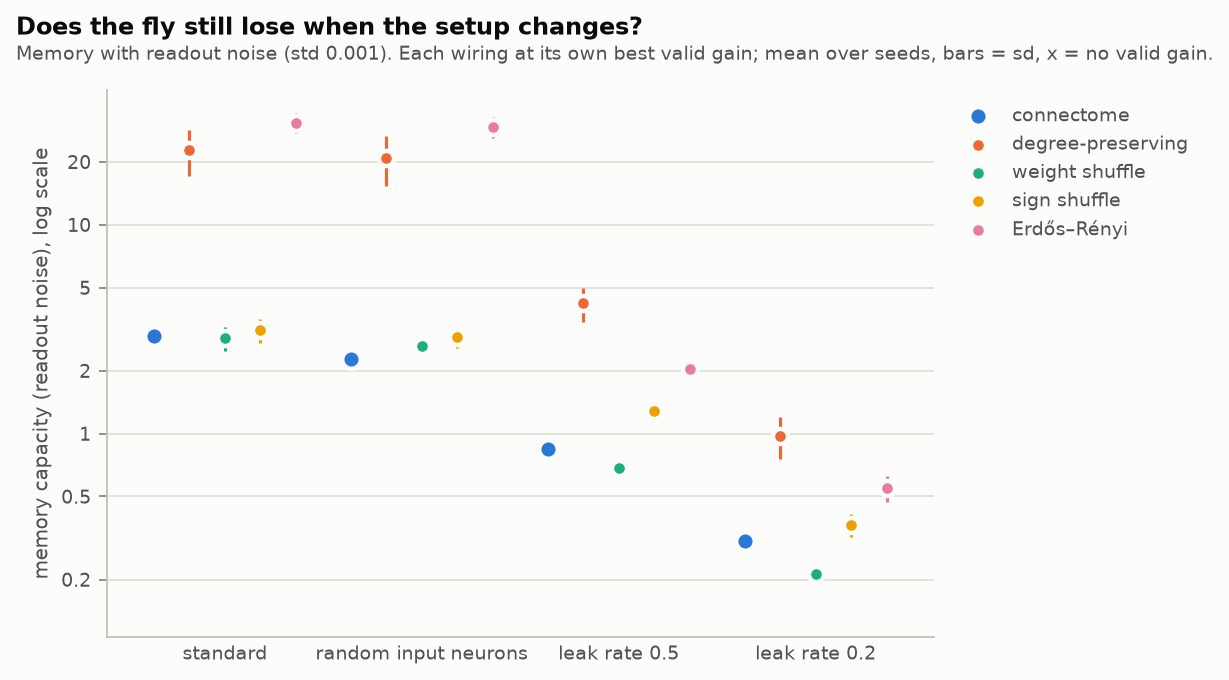
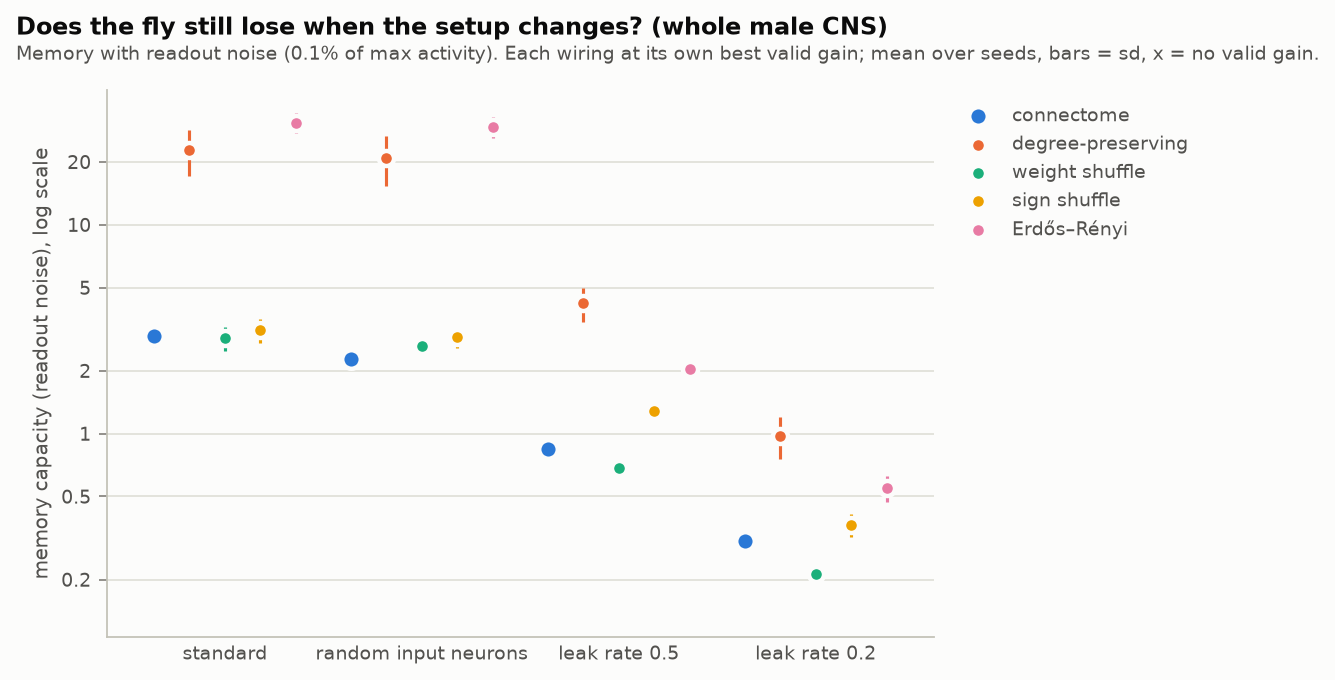
Figures: full scoreboard legend, fix gain sweep titles, name the brain in every title, NARMA replot

diff --git a/src/flyres/plotting.py b/src/flyres/plotting.py
@@ -449,7 +449,7 @@ def plot_gain_sweep(summary: pd.DataFrame, gain_label: str = "spectral radius", 
     axes = np.atleast_1d(axes)
     lo, hi = summary["gain"].min(), summary["gain"].max()
     labelled = [g for g in (0.25, 0.5, 1, 2, 3, 6, 12, 20, 30, 50, 100) if lo <= g <= hi]
-    for ax, (col, title) in zip(axes, panels):
+    for ax, (col, panel_title) in zip(axes, panels):
         for w in [w for w in WIRINGS if w in set(summary["wiring"])]:
             g = summary[summary["wiring"] == w].sort_values("gain")
             color = WIRING_COLORS[w]
@@ -465,7 +465,7 @@ def plot_gain_sweep(summary: pd.DataFrame, gain_label: str = "spectral radius", 
         ax.xaxis.set_major_formatter(mticker.FuncFormatter(lambda v, _: f"{v:g}"))
         ax.xaxis.set_minor_locator(mticker.NullLocator())
         ax.set_xlabel(gain_label)
-        ax.set_title(title, loc="left", fontsize=9.5, color=INK_2)
+        ax.set_title(panel_title, loc="left", fontsize=9.5, color=INK_2)
     axes[0].set_ylim(bottom=0)
     axes[0].set_ylabel("memory capacity")
     fig.suptitle(title, x=0.01, ha="left", fontsize=11, fontweight="bold", color=INK, y=1.04)
@@ -578,7 +578,7 @@ def plot_region_gains(results: pd.DataFrame, region_table: pd.DataFrame, noise: 
         ax_h.spines[side].set_visible(False)
     cb = fig.colorbar(mesh, cax=ax_c)
     cb.outline.set_visible(False)
-    ticks = [v for v in range(-6, 7, 2 if lim > 2 else 1) if -lim <= v <= lim]
+    ticks = [v for v in range(-6, 7, 2 if lim > 4 else 1) if -lim <= v <= lim]
     cb.set_ticks(ticks, labels=[f"×{2 ** v}" if v >= 0 else f"×1/{2 ** -v}" for v in ticks])
     cb.ax.tick_params(colors=MUTED, labelcolor=INK_2, labelsize=8)
 
@@ -707,7 +707,8 @@ def plot_vol_forecast(predictions: pd.DataFrame, ticker: str, horizon: int, wind
     return _save(fig, path)
 
 
-def plot_narma(grid: pd.DataFrame, baseline: float | None = None, noise: float | None = None, path=None):
+def plot_narma(grid: pd.DataFrame, baseline: float | None = None, noise: float | None = None, path=None,
+               title: str = "NARMA-10 error at each gain"):
     """NARMA-10 error against gain, one line per wiring (mean over seeds). Lower is better. With readout-noise
     results, two panels on the same y scale: with noise (left, the main score) and noise-free (right).
     Filled markers = valid reservoir, hollow = some readouts latch or go chaotic."""
@@ -717,7 +718,7 @@ def plot_narma(grid: pd.DataFrame, baseline: float | None = None, noise: float |
     fig, axes = _figure(len(panels), figsize=(4.6 * len(panels) + 1.8, 4.0), sharey=True)
     axes = np.atleast_1d(axes)
     lo, hi = grid["gain"].min(), grid["gain"].max()
-    for ax, (col, title) in zip(axes, panels):
+    for ax, (col, panel_title) in zip(axes, panels):
         for w in [w for w in WIRINGS if w in set(grid["wiring"])]:
             g = grid[grid["wiring"] == w].sort_values("gain")
             color, main = WIRING_COLORS[w], w == "connectome"
@@ -728,26 +729,26 @@ def plot_narma(grid: pd.DataFrame, baseline: float | None = None, noise: float |
             ax.scatter(g["gain"][~ok], g[col][~ok], s=40, facecolors=SURFACE, edgecolors=color, linewidths=1.6,
                        zorder=4)
         if baseline is not None and np.isfinite(baseline):
-            ax.axhline(baseline, color=INK_2, linewidth=1.2, linestyle="--", zorder=1)
-            ax.text(lo, baseline, " linear model, last 10 inputs", va="bottom", ha="left", fontsize=8.5, color=INK_2)
+            ax.axhline(baseline, color=INK_2, linewidth=1.2, linestyle="--", zorder=1,
+                       label="linear model,\nlast 10 inputs" if ax is axes[-1] else None)
         ax.set_xscale("log")
         ax.set_xticks([g for g in (0.25, 0.5, 1, 2, 3, 6, 12, 20, 30, 50) if lo <= g <= hi])
         ax.xaxis.set_major_formatter(mticker.FuncFormatter(lambda v, _: f"{v:g}"))
         ax.xaxis.set_minor_locator(mticker.NullLocator())
         ax.set_xlabel("spectral radius")
-        ax.set_title(title, loc="left", fontsize=9.5, color=INK_2)
+        ax.set_title(panel_title, loc="left", fontsize=9.5, color=INK_2)
     axes[0].set_ylabel("NRMSE (lower = better)")
     axes[0].set_ylim(bottom=0)
     _legend(axes[-1], loc="upper left", bbox_to_anchor=(1.02, 1.0))
     fig.tight_layout()
-    fig.suptitle("NARMA-10 error at each gain", x=0.01, ha="left", fontsize=11, fontweight="bold", color=INK,
-                 y=1.08)
+    fig.suptitle(title, x=0.01, ha="left", fontsize=11, fontweight="bold", color=INK, y=1.08)
     fig.text(0.01, 1.01, "Mean over seeds. Hollow = invalid reservoir (some neurons latch or go chaotic).",
              ha="left", fontsize=8.5, color=INK_2)
     return _save(fig, path)
 
 
-def plot_robustness(best: pd.DataFrame, labels: dict, noise: float | None = None, path=None):
+def plot_robustness(best: pd.DataFrame, labels: dict, noise: float | None = None, path=None,
+                    title: str = "Does the fly still lose when the setup changes?"):
     """Each wiring's memory at its best valid gain, for each variant of the setup (groups left to right).
     best: rows per variant and wiring as from robustness.summarize_robustness. labels: variant -> label.
     Bars = sd over seeds; x = no valid gain for that wiring. Log scale when values span more than 20x."""
@@ -791,13 +792,15 @@ def plot_robustness(best: pd.DataFrame, labels: dict, noise: float | None = None
                   + (", log scale" if log else ""))
     _legend(ax, loc="upper left", bbox_to_anchor=(1.01, 1.0))
     fig.tight_layout()
-    fig.suptitle("Does the fly still lose when the setup changes?", x=0.01, ha="left", fontsize=11,
-                 fontweight="bold", color=INK, y=1.08)
+    fig.suptitle(title, x=0.01, ha="left", fontsize=11, fontweight="bold", color=INK, y=1.08)
     sub = "Each wiring at its own best valid gain; mean over seeds, bars = sd, x = no valid gain."
     if noise and metric == "memory_noisy":
-        sub = f"Memory with readout noise (std {noise:g}). " + sub
+        sub = f"Memory with readout noise ({noise:.1%} of max activity). " + sub
     fig.text(0.01, 1.01, sub, ha="left", fontsize=8.5, color=INK_2)
     return _save(fig, path)
+
+
+FLY_SIZE, RANDOM_SIZE = 64, 24  # scoreboard marker areas (pt^2)
 
 
 def plot_scoreboard(table: pd.DataFrame, setups: dict, path=None, scales=None, connectomes=None):
@@ -809,6 +812,7 @@ def plot_scoreboard(table: pd.DataFrame, setups: dict, path=None, scales=None, c
     connectomes = [x for x in (connectomes or dict.fromkeys(table["connectome"])) if x in set(table["connectome"])]
     rows = [s for s in setups if s in set(table["setup"])]
     markers = dict(zip(connectomes, ("o", "D", "s", "^")))
+    shapes = {"o": "circle", "D": "diamond", "s": "square", "^": "triangle"}
     offsets = dict(zip(connectomes, np.linspace(-0.17, 0.17, len(connectomes)) if len(connectomes) > 1 else [0.0]))
     fly_color = WIRING_COLORS["connectome"]
     fig, axes = _figure(len(scales), figsize=(4.3 * len(scales) + 2.2, 0.52 * len(rows) + 1.3), sharey=True,
@@ -826,10 +830,10 @@ def plot_scoreboard(table: pd.DataFrame, setups: dict, path=None, scales=None, c
                 y = i + offsets[c]
                 f, r = t.loc[setup, "fly"], t.loc[setup, "random"]
                 ax.plot([f, r], [y, y], color=GRID, linewidth=2.2, zorder=1, **LINE)
-                ax.scatter([f], [y], marker=markers[c], s=58, color=fly_color, edgecolors=SURFACE, linewidths=1.5,
-                           zorder=2)
-                # the random wiring on top and a bit smaller, so a tie still shows both
-                ax.scatter([r], [y], marker=markers[c], s=34, color=MUTED, edgecolors=SURFACE, linewidths=1.2, zorder=3)
+                ax.scatter([f], [y], marker=markers[c], s=FLY_SIZE, color=fly_color, edgecolors=SURFACE,
+                           linewidths=1.5, zorder=2)
+                # the random wiring on top and smaller, so a tie still shows a blue ring around the gray
+                ax.scatter([r], [y], marker=markers[c], s=RANDOM_SIZE, color=MUTED, linewidths=0, zorder=3)
         ax.set_xscale("log")
         ax.set_xlim(lo / 1.6, hi * 1.6)
         ax.xaxis.set_major_locator(mticker.FixedLocator([t for t in (0.2, 0.5, 1, 2, 5, 10, 20, 50, 100)
@@ -844,16 +848,24 @@ def plot_scoreboard(table: pd.DataFrame, setups: dict, path=None, scales=None, c
     axes[0].tick_params(axis="y", length=0)
     from matplotlib.lines import Line2D
 
-    handles = [Line2D([], [], marker="o", linestyle="", color=fly_color, markersize=7, label="the fly's wiring"),
-               Line2D([], [], marker="o", linestyle="", color=MUTED, markersize=7,
-                      label="best random rewiring\n(degree-preserving or\nErdős–Rényi)")]
-    handles += [Line2D([], [], marker=markers[c], linestyle="", color=INK_2, markersize=6, label=c)
-                for c in connectomes]
-    _legend(axes[-1], handles=handles, loc="upper left", bbox_to_anchor=(1.02, 1.0))
+    def entry(marker, color, size, label):  # legend marker the same size as in the plot
+        return Line2D([], [], marker=marker, linestyle="", markersize=np.sqrt(size), color=color,
+                      markeredgewidth=0, label=label)
+
+    # every colour-shape pair spelled out: blue diamond = the fly in FlyWire, and so on
+    handles = [entry(markers[c], fly_color, FLY_SIZE, f"the fly, {c}") for c in connectomes]
+    handles += [entry(markers[c], MUTED, RANDOM_SIZE, f"best random rewiring, {c}") for c in connectomes]
+    shown = {c: set(zip(table.loc[table["connectome"] == c, "scale"], table.loc[table["connectome"] == c, "setup"]))
+             for c in connectomes}
+    everything = set().union(*shown.values())
+    handles += [Line2D([], [], linestyle="", label=f"no {shapes[markers[c]]} = not run on {c}")
+                for c in connectomes if len(connectomes) > 1 and shown[c] != everything]
+    _legend(axes[-1], handles=handles, loc="upper left", bbox_to_anchor=(1.02, 1.0), handletextpad=0.4)
     fig.tight_layout()
     height = fig.get_size_inches()[1]  # place the titles a fixed distance above the plot, whatever its height
     fig.suptitle("The fly against random wiring, in every setup", x=0.01, ha="left", fontsize=11, fontweight="bold",
                  color=INK, y=1 + 0.38 / height)
-    fig.text(0.01, 1 + 0.06 / height, "Memory each reservoir can use (higher = better), 3 seeds each. Blue = the fly, "
-             "gray = the better of the two random rewirings.", ha="left", fontsize=8.5, color=INK_2)
+    fig.text(0.01, 1 + 0.06 / height, "Memory each reservoir can use (higher = better), mean of 3 seeds. "
+             "Best random rewiring = the better of degree-preserving and Erdős–Rényi.", ha="left", fontsize=8.5,
+             color=INK_2)
     return _save(fig, path)

diff --git a/scripts/narma.py b/scripts/narma.py
@@ -6,7 +6,7 @@
 Same reservoirs as gain_sweep.py (seeds, input weights, readout neurons, latching tests). If gain_sweep.py
 has been run for this config, NARMA error is also compared with memory capacity reservoir by reservoir.
 Output in results/<name>/narma/: summary.md (start here), runs.csv (every run), grid.csv (mean per wiring
-and gain), narma.png.
+and gain), narma.png. --replot redraws them from runs.csv and linear_baseline.csv.
 """
 import argparse
 import warnings
@@ -20,7 +20,7 @@ import matplotlib.pyplot as plt  # noqa: E402
 import pandas as pd  # noqa: E402
 
 from flyres import plotting  # noqa: E402
-from flyres.config import load_config, save_config  # noqa: E402
+from flyres.config import load_config, run_label, save_config  # noqa: E402
 from flyres.narma import best_narma, memory_link, narma_markdown, run_narma, summarize_narma  # noqa: E402
 from flyres.sweep import DEFAULT_GAINS  # noqa: E402
 
@@ -34,6 +34,7 @@ def main():
     p.add_argument("--gains", nargs="+", type=float, default=list(DEFAULT_GAINS))
     p.add_argument("--seeds", nargs="+", type=int, default=[0, 1, 2], help="seeds (default 0 1 2, like the gain sweep)")
     p.add_argument("--quiet", action="store_true")
+    p.add_argument("--replot", action="store_true", help="don't run; redraw summary and figure from earlier CSVs")
     args = p.parse_args()
 
     cfg = load_config(args.config, args.set)
@@ -42,18 +43,22 @@ def main():
     out = run_dir / "narma"
     out.mkdir(parents=True, exist_ok=True)
 
-    runs, baseline = run_narma(cfg, args.gains, verbose=not args.quiet)
+    if args.replot:
+        runs, baseline = pd.read_csv(out / "runs.csv"), pd.read_csv(out / "linear_baseline.csv")
+        cfg = load_config(out / "config_used.yaml")
+    else:
+        runs, baseline = run_narma(cfg, args.gains, verbose=not args.quiet)
+        runs.to_csv(out / "runs.csv", index=False)
+        baseline.to_csv(out / "linear_baseline.csv", index=False)
+        save_config(cfg, out / "config_used.yaml")
     grid = summarize_narma(runs)
     best = best_narma(grid, cfg.reservoir.spectral_radius)
     sweep_path = run_dir / "gain_sweep" / "sweep.csv"
     link = memory_link(runs, pd.read_csv(sweep_path)) if sweep_path.exists() else None
-    runs.to_csv(out / "runs.csv", index=False)
     grid.to_csv(out / "grid.csv", index=False)
-    baseline.to_csv(out / "linear_baseline.csv", index=False)
-    save_config(cfg, out / "config_used.yaml")
     (out / "summary.md").write_text(narma_markdown(cfg, grid, best, baseline, link), encoding="utf-8")
     plt.close(plotting.plot_narma(grid, baseline["nrmse"].mean(), noise=cfg.memory.readout_noise,
-                                  path=out / "narma.png"))
+                                  path=out / "narma.png", title=f"NARMA-10 error at each gain, {run_label(cfg)}"))
     print(best.round(3).to_string(index=False))
     print(f"linear baseline: {baseline['nrmse'].mean():.3f}")
     print(f"open {out / 'summary.md'}")

diff --git a/tests/test_plotting.py b/tests/test_plotting.py
@@ -24,6 +24,20 @@ def test_figures_render_and_save(tmp_path, neurons):
     plt.close("all")
 
 
+def test_sweep_figures_keep_their_title():
+    """Regression: the panel loop reused the name `title`, so the figure was titled after its last panel."""
+    grid = pd.DataFrame([{"wiring": w, "gain": g, "memory": 5.0, "memory_noisy": 2.0, "nrmse": 0.5,
+                          "nrmse_noisy": 0.7, "valid": g < 2} for w in ("connectome", "erdos_renyi") for g in (0.9, 2)])
+    fig = plotting.plot_gain_sweep(grid, noise=0.001, title="Memory, whole male CNS")
+    assert fig._suptitle.get_text() == "Memory, whole male CNS"
+    assert [ax.get_title(loc="left") for ax in fig.axes] == ["With readout noise (0.1% of max activity)",
+                                                             "Noise-free (standard benchmark)"]
+    fig2 = plotting.plot_narma(grid, baseline=0.6, noise=0.001, title="NARMA, whole male CNS")
+    assert fig2._suptitle.get_text() == "NARMA, whole male CNS"
+    assert "linear model,\nlast 10 inputs" in [t.get_text() for t in fig2.axes[-1].get_legend().get_texts()]
+    plt.close("all")
+
+
 def test_plotting_leaves_global_matplotlib_state_alone(neurons):
     """Regression: an rc_context around figure creation used to reset IPython's interactive mode,
     so only the first figure in a notebook was shown."""
@@ -58,3 +72,14 @@ def test_every_figure_shows_in_a_notebook(neurons, tmp_path, monkeypatch):
     nbclient.NotebookClient(nb, timeout=120, kernel_name="flyres-test").execute()
     shown = [any("image/png" in o.get("data", {}) for o in c.outputs) for c in nb.cells[1:]]
     assert shown == [True, True, True]
+
+
+def test_run_label_names_the_brain():
+    from pathlib import Path
+
+    from flyres.config import load_config, run_label
+
+    configs = Path(__file__).resolve().parents[1] / "configs"
+    assert [run_label(load_config(configs / f"{n}.yaml")) for n in ("full", "small", "flywire_full", "flywire_small")] == [
+        "whole male CNS", "3,000-neuron circuit, male CNS", "whole FlyWire brain (female)",
+        "3,000-neuron circuit, FlyWire (female)"]

diff --git a/scripts/robustness.py b/scripts/robustness.py
@@ -21,7 +21,7 @@ import matplotlib.pyplot as plt  # noqa: E402
 import pandas as pd  # noqa: E402
 
 from flyres import plotting  # noqa: E402
-from flyres.config import load_config, save_config  # noqa: E402
+from flyres.config import load_config, run_label, save_config  # noqa: E402
 from flyres.robustness import (VARIANTS, fly_gap, robustness_markdown, run_robustness,  # noqa: E402
                                summarize_robustness)
 from flyres.sweep import DEFAULT_GAINS  # noqa: E402
@@ -55,7 +55,8 @@ def main():
     best.to_csv(out / "best.csv", index=False)
     (out / "summary.md").write_text(robustness_markdown(cfg, best), encoding="utf-8")
     labels = {v: label for v, (label, _) in VARIANTS.items()}
-    plt.close(plotting.plot_robustness(best, labels, noise=cfg.memory.readout_noise, path=out / "robustness.png"))
+    plt.close(plotting.plot_robustness(best, labels, noise=cfg.memory.readout_noise, path=out / "robustness.png",
+                                       title=f"Does the fly still lose when the setup changes? ({run_label(cfg)})"))
     metric = "memory_noisy" if "memory_noisy" in best.columns else "memory"
     print(best.pivot(index="variant", columns="wiring", values=metric).round(1).to_string())
     print(fly_gap(best, metric).round(2).to_string(index=False))

diff --git a/scripts/gain_sweep.py b/scripts/gain_sweep.py
@@ -19,7 +19,7 @@ import matplotlib.pyplot as plt  # noqa: E402
 import pandas as pd  # noqa: E402
 
 from flyres import plotting  # noqa: E402
-from flyres.config import load_config, save_config  # noqa: E402
+from flyres.config import load_config, run_label, save_config  # noqa: E402
 from flyres.sweep import DEFAULT_GAINS, best_valid, run_gain_sweep, summarize_sweep, sweep_markdown  # noqa: E402
 
 # joblib restarts a worker whose memory grew a lot between jobs; harmless, results aren't lost.
@@ -51,9 +51,8 @@ def main():
     save_config(cfg, out / "config_used.yaml")
     (out / "summary.md").write_text(sweep_markdown(cfg, summary, best), encoding="utf-8")
     label = "spectral radius" if cfg.reservoir.normalize == "spectral" else "bulk scale (frobenius)"
-    title = "Memory capacity at each gain" + (", FlyWire (female brain)" if cfg.connectome.source == "flywire" else "")
     plt.close(plotting.plot_gain_sweep(summary, label, noise=cfg.memory.readout_noise, path=out / "gain_sweep.png",
-                                       title=title))
+                                       title=f"Memory capacity at each gain, {run_label(cfg)}"))
     print(best.to_string(index=False))
     print(f"open {out / 'summary.md'}")
 

diff --git a/scripts/homeostasis.py b/scripts/homeostasis.py
@@ -21,7 +21,7 @@ import matplotlib.pyplot as plt  # noqa: E402
 import pandas as pd  # noqa: E402
 
 from flyres import plotting  # noqa: E402
-from flyres.config import load_config, save_config  # noqa: E402
+from flyres.config import load_config, run_label, save_config  # noqa: E402
 from flyres.homeostasis import TARGETS, homeostasis_markdown, run_homeostasis  # noqa: E402
 from flyres.sweep import DEFAULT_GAINS  # noqa: E402
 
@@ -58,7 +58,7 @@ def main():
     (out / "summary.md").write_text(homeostasis_markdown(cfg, results, regions, trials), encoding="utf-8")
     plt.close(plotting.plot_region_gains(
         results, regions, noise=cfg.memory.readout_noise, path=out / "homeostasis.png", after="homeostatic",
-        after_label="homeostatic gains", title="Homeostatic gains",
+        after_label="homeostatic gains", title=f"Homeostatic gains, {run_label(cfg)}",
         heat_title="Mean gain of each region's neurons after the rule (neurons)",
         subtitle="Hollow = each wiring's best single gain. Filled = after every neuron scales its inputs toward the "
                  "same input level; red = region turned up, blue = down. Mean over seeds, small dots = seeds."))

diff --git a/scripts/region_gains.py b/scripts/region_gains.py
@@ -22,7 +22,7 @@ import matplotlib.pyplot as plt  # noqa: E402
 import pandas as pd  # noqa: E402
 
 from flyres import plotting  # noqa: E402
-from flyres.config import load_config, save_config  # noqa: E402
+from flyres.config import load_config, run_label, save_config  # noqa: E402
 from flyres.regions import region_markdown, run_region_search  # noqa: E402
 from flyres.sweep import DEFAULT_GAINS  # noqa: E402
 
@@ -59,7 +59,7 @@ def main():
         save_config(cfg, out / "config_used.yaml")
     (out / "summary.md").write_text(region_markdown(cfg, results, regions), encoding="utf-8")
     plt.close(plotting.plot_region_gains(results, regions, noise=cfg.memory.readout_noise,
-                                         path=out / "region_gains.png"))
+                                         path=out / "region_gains.png", title=f"Per-region gains, {run_label(cfg)}"))
     col = "memory_noisy" if "memory_noisy_single" in results.columns else "memory"
     table = results.groupby("wiring", sort=False)[[f"{col}_single", f"{col}_regions"]].mean().round(1)
     print(table.to_string())

diff --git a/tests/test_scoreboard.py b/tests/test_scoreboard.py
@@ -53,8 +53,13 @@ def test_scoreboard_picks_the_better_scrambled_wiring(tmp_path):
                         ("FlyWire", "whole brain"): tmp_path / "flywire_full"})
     assert len(table) == 5 + 2 and (table["random_wiring"] == "erdos_renyi").all()
     np.testing.assert_allclose(table["ratio"], 10.0)  # never the weight or sign shuffle, which keep the fly's edges
-    plt.close(plotting.plot_scoreboard(table, SETUPS, path=tmp_path / "board.png"))
+    fig = plotting.plot_scoreboard(table, SETUPS, path=tmp_path / "board.png")
     assert (tmp_path / "board.png").stat().st_size > 0
+    # every colour-shape pair in the legend, and a note for the setups FlyWire wasn't run in
+    assert [t.get_text() for t in fig.axes[-1].get_legend().get_texts()] == [
+        "the fly, male CNS", "the fly, FlyWire", "best random rewiring, male CNS", "best random rewiring, FlyWire",
+        "no diamond = not run on FlyWire"]
+    plt.close(fig)
 
 
 def test_scoreboard_script(tmp_path):

diff --git a/src/flyres/config.py b/src/flyres/config.py
@@ -160,3 +160,12 @@ def load_config(path: str | Path | None = None, overrides: list[str] | None = No
 
 def save_config(cfg: ExperimentConfig, path: str | Path) -> None:
     Path(path).write_text(yaml.safe_dump(cfg.to_dict(), sort_keys=False), encoding="utf-8")
+
+
+def run_label(cfg: ExperimentConfig) -> str:
+    """Which brain a run uses, for figure titles: 'whole male CNS', '3,000-neuron circuit, FlyWire (female)'."""
+    src = cfg.connectome.source
+    if cfg.subgraph.method == "all":
+        return {"malecns": "whole male CNS", "flywire": "whole FlyWire brain (female)"}.get(src, f"whole {src} graph")
+    brain = {"malecns": "male CNS", "flywire": "FlyWire (female)"}.get(src, f"{src} graph")
+    return f"{cfg.subgraph.n_neurons:,}-neuron circuit, {brain}"

diff --git a/tests/test_narma.py b/tests/test_narma.py
@@ -71,6 +71,10 @@ def test_narma_script_and_report(tmp_path):
     out = tmp_path / "n" / "narma"
     for f in ("summary.md", "runs.csv", "grid.csv", "linear_baseline.csv", "narma.png", "config_used.yaml"):
         assert (out / f).exists(), f
+    (out / "narma.png").unlink()
+    replot = subprocess.run(cmd + ["--replot"], capture_output=True, text=True, timeout=300)
+    assert replot.returncode == 0, replot.stderr[-2000:]
+    assert (out / "narma.png").exists() and "linear baseline" in replot.stdout
     rep = subprocess.run([sys.executable, str(REPO / "scripts" / "report.py"), str(tmp_path / "n")],
                          capture_output=True, text=True, timeout=120)
     assert rep.returncode == 0, rep.stderr[-2000:]

diff --git a/README.md b/README.md
@@ -67,8 +67,9 @@ folders; each script's `summary.md` has the rest.
 
 *Every memory result in one chart: blue is the fly's wiring, gray the better of the two random
 rewirings, on a log scale, so the length of each bar is how many times more one remembers than the
-other (`scripts/scoreboard.py`). Per-neuron gains are the mean over seeds, including ones where the
-fly latches.*
+other (`scripts/scoreboard.py`). Circles are the male CNS, diamonds FlyWire, which got the gain sweep
+at both scales and the robustness checks in the small circuit. Per-neuron gains are the mean over
+seeds, including ones where the fly latches.*
 
 ### Markets: no edge
 
@@ -598,7 +599,9 @@ from 0.5 to 20). `region_gains.py` writes `results/small/region_gains/`; add `--
 more cores. `vol_forecast.py` writes `results/small/volatility/` (run it after `run_experiment.py`
 so it can relate each reservoir's memory to its forecasts); `--best-gains` runs every wiring at its
 best gain from the gain sweep instead, into `results/small/volatility_best_gain/`. `robustness.py`
-writes `results/small/robustness/`; `--variants` picks which checks to run.
+writes `results/small/robustness/`; `--variants` picks which checks to run. `gain_sweep.py`,
+`region_gains.py`, `homeostasis.py`, `narma.py` and `robustness.py` also take `--replot`, which
+redraws the summary and figure from the saved CSVs without running anything.
 `notebooks/01_connectome_tour.ipynb` explores the graph and its eigenvalue spectrum,
 `notebooks/02_results.ipynb` runs and plots an experiment.
 
